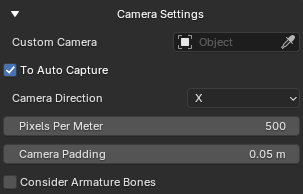
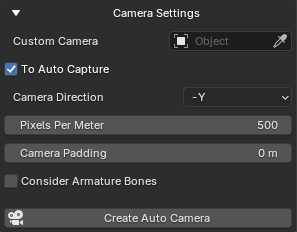
Updated README to reflect all changes till now

diff --git a/README.md b/README.md
@@ -19,14 +19,15 @@ An addon to convert your 3D animations into 2D sprite sheets with in-built toggl
 3. Labeling for each strip
 4. Allows single sprite creation
 5. In-built pixelation tool
-6. Recontinuing in case of failure  
-
+6. Options for combining into sheet, strips or images
+7. Maintains sprite dimension consistency
+8. Recontinuing in case of failure  
 
 
 ## 🛠 How to install?
-1. Download this repo as .zip file (or download from [releases](https://github.com/ManasMakde/SpriteSheetMaker/releases/))
-2. Go to _Edit -> Preferences -> Add-ons -> Install from Disk_ and select the .zip file (make sure it's enabled once installed)
-3. If the installation was successful you should now see the panel changed as such:
+1. Download the plugin from [releases](https://github.com/ManasMakde/SpriteSheetMaker/releases/) or official [blender extension](https://extensions.blender.org/add-ons/sprite-sheet-maker/) site
+2. If installed from releases, Go to _Edit -> Preferences -> Add-ons -> Install from Disk_ and select the .zip file (make sure it's enabled once installed)
+3. If the installation was successful you should now see the panel as such:
 
    ![Sidebar screenshot](images/sidebar_screenshot.png)  
 
@@ -34,13 +35,17 @@ An addon to convert your 3D animations into 2D sprite sheets with in-built toggl
 
 ## 📖 Terminology  
 ![Sprite Sheet Anatomy](images/sprite_sheet_anatomy.png)  
+![Sprite Sheet Margins](images/sprite_sheet_margins.png)  
 
 
 ## 🧭 Usage
 1. **Animation Strips:**   
    ![Animation Strips screenshot](images/animation_strips_screenshot.png)   
 
-   Each one of these represent a row within a sprite sheet, You can add or remove them using the + and - buttons on the side, You can reorder them using the arrow ▲ and ▼ buttons on the side.
+   Each one of these represent a row within a sprite sheet  
+   You can duplicate by using the <img src="images/duplicate_button.png"/> button  
+   You can add or remove them using the + and - buttons on the side  
+   You can reorder them using the arrow ▲ and ▼ buttons on the side.
 
 2. **Strip Info:**  
    ![Strip Info screenshot](images/strip_info_screenshot.png)   
@@ -68,7 +73,7 @@ An addon to convert your 3D animations into 2D sprite sheets with in-built toggl
       If provided this camera will be used to capture images
    
    2. **To Auto Capture:**  
-      If checked then the `Custom Camera` will be automatically setup for you, If `Custom Camera` is not provided then a camera will be created, setup & deleted afterwards. If unchecked then you will have to setup the camera yourself e.g. Keep all objects in frame, Follow them as they move, etc
+      If checked then the `Custom Camera` will be automatically setup for you, If `Custom Camera` is not provided then an auto camera will be created, setup & deleted afterwards. If unchecked then you will have to setup the camera yourself e.g. Keep all objects in frame, Follow them as they move, etc
 
    3. **Camera Direction:**  
       Which direction should the camera be facing from while capturing sprites
@@ -81,6 +86,9 @@ An addon to convert your 3D animations into 2D sprite sheets with in-built toggl
 
    6. **Consider Armature Bones:**  
       If this is enabled then the bones of the armature(s) are also taken into calculations when fitting the objects into view of camera 
+   
+   7. **Create Auto Camera:**  
+      This will add the auto camera that was to be used into your scene, If `Custom Camera` is assigned then it will apply the auto capture properties to it
 
 4. **Pixelation Settings**  
    ![Pixelation Settings screenshot](images/pixelation_settings_screenshot.png)   
@@ -98,15 +106,12 @@ An addon to convert your 3D animations into 2D sprite sheets with in-built toggl
       If any pixel in the sprite has a transparency less than this amount then it is discarded (If you would like to remove all semi-transparent pixel set this to 1.0)
 
    5. **Alpha Step:**  
-      Ensures that all pixels have a transparency which is a multiple of this amount
+      Ensures that all pixels have a transparency which is a multiple of this amount, Keep at 0.0 to disable
 
-   6. **Shrink Interp:**  
-      Which interpolation method to use while shrinking the rendered image into pixelated version
-
-   7. **Test Image:**  
+   6. **Test Image:**  
       Provide an image on which to apply the pixelation settings (useful for testing pixelation settings before applying to entire sheet)
 
-   8. **Pixelate Test Image:**  
+   7. **Pixelate Test Image:**  
       Generates a pixelated version of the image provided, This is purely for testing purposes on the provided image, this button will not effect your sprite sheet in any way (You can also think of this as a standalone pixelizer for images)
 
 5. **Output Settings**  
@@ -115,19 +120,30 @@ An addon to convert your 3D animations into 2D sprite sheets with in-built toggl
    1. **Label Font Size:**  
       The font size of the action name labels in sprite sheet, If you do not want labels in your sprite sheet you can set it to 0
 
-   2. **Sprite Margin:**  
-      Margin, in pixels, that should be applied around each sprite
+   2. **Surrounding Margins:**  
+      Margin, in pixels, that should be applied around the borders of the entire sprite sheet
    
-   3. **Sprite Consistency:**  
+   3. **Label Margin:**  
+      Vertical margin, in pixels, between the label and the images
+   
+   4. **Image Margin:**  
+      Horizonal margin, in pixel, between images within a row 
+   
+   5. **Sprite Consistency:**  
       This dictates the dimension of sprites,  
       `Individual Consistent` means each sprite keeps to its own content's width while matching the height of its row i.e. All sprites have their own dimensions  
       `Row Consistent` means every sprite in the row matches the row's widest sprite in width and tallest sprite in height i.e. All sprites in a row have the same dimensions  
       `All Consistent` means every sprite in the sheet matches the widest sprite in width and tallest sprite in height i.e. All sprites have the same dimensions  
    
-   4. **Sprite Align:**  
+   6. **Sprite Align:**  
       Decides how the content should be aligned within the sprite
    
-   5. **Delete Temp Folder:**  
+   7. **Combine Mode:**  
+      `Images` mode will create all sprites in separate files  
+      `Strips` mode will create each row as a seperate file   
+      `Sheet` mode will create a complete sprite sheet in a single file   
+
+   8. **Delete Temp Folder:**  
       Should the temp folder be deleted after creating the sprite sheet (Look at "How this works?" section to learn more)
 
 
@@ -135,7 +151,7 @@ An addon to convert your 3D animations into 2D sprite sheets with in-built toggl
    Folder in which the sprite sheet is rendered
 
 7. **Combine Sprites:**  
-   Combines all images in the selected `Output Folder` into one sprite sheet but only given that it follows the following structure:
+   Combines all images in the selected `Output Folder` (Here it rather acts as an "input folder") into one sprite sheet but only given that it follows the following structure:
 
    ```
    SpriteSheetMakerTemp/
@@ -151,10 +167,10 @@ An addon to convert your 3D animations into 2D sprite sheets with in-built toggl
    ```
 
 8. **Create Single Sprite:**  
-   This renders a single sprite with all settings applied, Only `Actions to Capture` is ignored and instead generates sprite in whatever is currently in the viewport
+   This renders a single sprite with all settings applied, The label for it is taken from the first `Animation Strip` item
 
 9. **Create Sprite Sheet:**  
-   This creates the entire sprite sheet at the specified `Output Folder`, While creating you might see a temp folder by the name of "SpriteSheetMakerTemp" do not delete it otherwise the sheet won't be created properly 
+   This creates the entire sprite sheet (or whichever `Combine Mode` is specified) at the given `Output Folder`, While creating you might see a temp folder by the name of "SpriteSheetMakerTemp" do not delete it otherwise the sheet won't be created properly 
 
 
 
@@ -172,9 +188,11 @@ The reason meshes were also added was so that `To Auto Capture` also puts them w
 **_Why is my sprite empty / not showing any objects?_**  
 1. Make sure you've added the desired objects to `Objects to Capture`
 2. Make sure `Pixels Per Meter` isn't 0 or too small 
-3. Make sure you've added lights  
-4. Make sure if `Auto Camera` is unchecked your own camera is setup properly
-5. Try rendering on your own before using this addon to see if the issue persists  
+3. Make sure if `To Auto Capture` is unchecked your own camera is setup properly
+4. Make sure `Pixelation Amount` isn't too much
+5. Make sure `Min Alpha` & `Alpha step` aren't exceeding 1.0 
+6. Make sure you've added lights  
+7. Try rendering on your own before using this addon to see if the issue persists  
 
 <br/>
 
